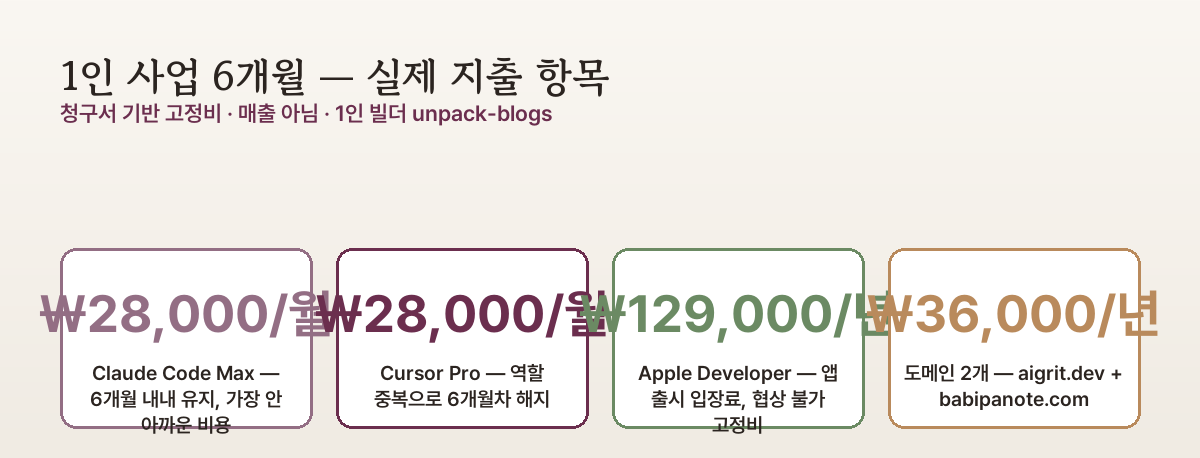
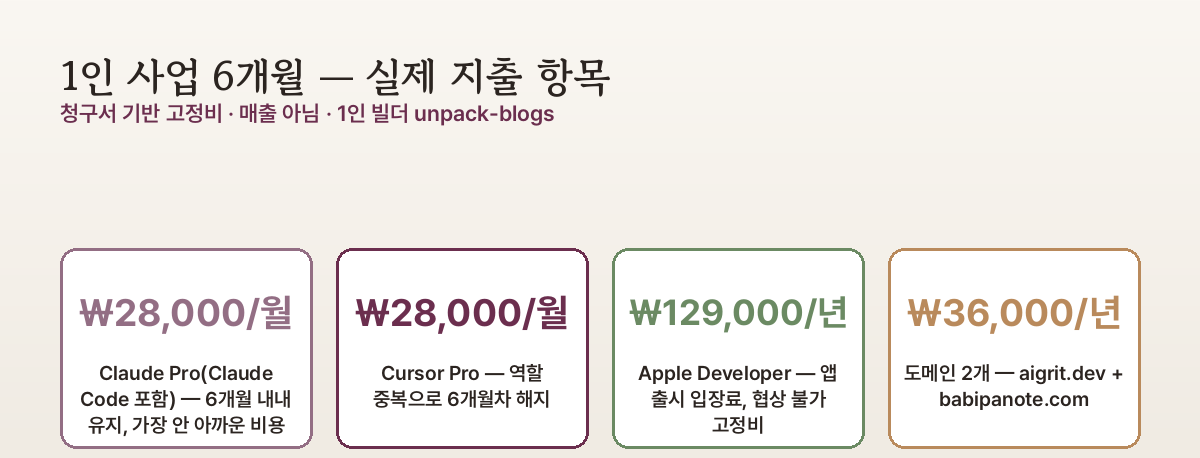
fix: 발행 글 본문 이미지 보강 · Claude 요금제 표기 정정 · 네이버 초안 점검 (#83)
- AIGrit 발행 글 6편에 본문 이미지 11장 추가(규칙: cluster 이미지 3장 이상, OG 포함)
  ai-image-stock · substack · gpt-store · prompt-freelance · promptbase · coupang-partners,
  updated는 실제 KST 수정 시각
- babipanote 예약 글 2편: "Claude Code Max 월 ₩28,000" → Claude Pro(Claude Code 포함)로 정정,
  비용 카드 이미지 재생성
- scripts/gen-infographics.py: stat_cards 큰 숫자가 카드 밖으로 넘치던 문제 수정(자동 축소·카드 높이)
- 네이버 에디션 초안 01·02·03·05에 점검 메모 추가, 05의 요금제 표기·근거 없는 외주 견적 수치 수정

Claude-Session: https://claude.ai/code/session_01SovLyEgD3EAvsTSQs8Xmf5

diff --git a/scripts/gen-infographics.py b/scripts/gen-infographics.py
@@ -272,13 +272,16 @@ def stat_cards(spec, T):
     img = gradient(W, H, T["bgTop"], T["bgBot"]); d = ImageDraw.Draw(img)
     header(d, T, spec["title"], spec.get("subtitle",""), W)
     n = len(cards); x0=60; x1=W-60; tw=x1-x0; gap=24
-    cw = (tw - gap*(n-1))//n; y = top+80; ch = 180
+    cw = (tw - gap*(n-1))//n; y = top+80; ch = 200
     palette = ["cyan","indigo","green","amber"]
     for i, c in enumerate(cards):
         x = x0 + i*(cw+gap)
         col = T[COLORMAP.get(c.get("color", palette[i%4]), "cyan")]
         rounded(d, (x, y, x+cw, y+ch), 16, fill=T["card"], outline=col, width=3)
-        d.text((x+cw//2, y+34), str(c["big"]), font=font("pb", 52), fill=col, anchor="ma")
+        big = str(c["big"]); bs = 52
+        while bs > 24 and d.textlength(big, font=font("pb", bs)) > cw - 28:
+            bs -= 2  # 카드 폭을 넘지 않도록 큰 숫자 글꼴을 줄인다
+        d.text((x+cw//2, y+34+(52-bs)//2), big, font=font("pb", bs), fill=col, anchor="ma")
         for li, ln in enumerate(wrap(d, c["label"], font("ps", 20), cw-30)[:3]):
             d.text((x+cw//2, y+112+li*26), ln, font=font("ps", 20), fill=T["head"], anchor="ma")
     return img

diff --git a/docs/naver-setup/editions/05-ai-ios-app-2weeks.md b/docs/naver-setup/editions/05-ai-ios-app-2weeks.md
@@ -2,6 +2,8 @@
 
 > **네이버 복붙용 초안.** "── 제목 ──" 이하만 네이버 스마트에디터에 복사하세요.
 > GentleDo 시리즈 **2/3** — #4 네이밍 → **#5 개발기(이 글)** → #6 심사 통과기.
+>
+> ⚠ **2026-10-21 점검 — 이미 발행된 글(blog.naver.com/aigrit/224269781667)도 수정 필요.** Claude Code는 월 $20인 **Claude Pro**에 포함되며, Max는 그보다 비싼 요금제다. 본문의 "Claude Code Max — 월 $20" 표기를 아래 초안처럼 "Claude Pro(Claude Code 포함) — 월 $20"으로 고쳤으니 네이버 글에도 같은 수정을 반영한다. "Flutter 외주 최소 300만원, 75배 차이"는 근거 자료가 없어 초안에서 수치를 뺐다.
 
 ---
 
@@ -86,7 +88,7 @@ open /Users/seung-yeoblee/dev/unpack-blogs/docs/naver-setup/editions/images/05-g
 - **언어 / 프레임워크** — Flutter + Dart
 - **상태관리** — Riverpod
 - **로컬 DB** — Drift (SQLite 래퍼)
-- **AI 페어** — Claude Code Max 구독
+- **AI 페어** — Claude Pro 구독 (Claude Code 포함)
 
 Flutter를 고른 이유는 단순합니다. **iOS·Android·macOS를 한 코드베이스로 만들 수 있고**, Dart는 정적 타입이라 AI랑 페어 프로그래밍할 때 실수가 적었어요.
 
@@ -98,11 +100,11 @@ Flutter를 고른 이유는 단순합니다. **iOS·Android·macOS를 한 코드
 
 2주간 실제 결제 내역입니다.
 
-- **Claude Code Max** — 월 $20 (≈ ₩28,000)
+- **Claude Pro (Claude Code 포함)** — 월 $20 (≈ ₩28,000)
 - **Apple Developer Program** — 연 $99 (월 환산 ≈ $8.25)
 - **합계 — 월 $28.25 ≈ ₩40,000**
 
-Flutter 외주 견적 받으면 **최소 300만원부터** 시작합니다. 75배 차이예요. 부업으로 시작하기에 이만한 가성비가 없습니다.
+같은 앱을 외주로 맡기면 비용이 훨씬 커집니다. 부업으로 시작하기에 이만한 가성비가 없습니다.
 
 ---
 
@@ -195,7 +197,7 @@ TestFlight 암호화 선언, iPad 타깃 제거, provisioning profile 설정. **
 처음 쓰시는 분께 추천 순서입니다.
 
 - **무료 ChatGPT** — 개념 질문·디버깅 시작점
-- **Claude Code Max $20** — 본격 개발 시작 (가성비 최강)
+- **Claude Pro $20 (Claude Code 포함)** — 본격 개발 시작
 - **Cursor Pro $20** — IDE 안에서 작업하고 싶으면
 
 처음엔 무료로 감 잡고, **프로젝트 시작할 때 Claude Code 전환**이 현실적이에요.

diff --git a/docs/naver-setup/editions/01-apple-shortcuts-50000won.md b/docs/naver-setup/editions/01-apple-shortcuts-50000won.md
@@ -1,6 +1,8 @@
 # 🧾 네이버 에디션 #1 — Apple 단축어 편
 
 > **네이버 복붙용 초안.** 아래 "── 제목 ──" 이하만 복사해서 네이버 스마트에디터에 붙여넣으세요.
+>
+> ⚠ **2026-10-21 점검 — 발행 전 수정 필요.** 원본 AIGrit 글(`apple-shortcuts-ai-automation`)은 근거 없는 절약 시간·금액을 삭제하고 개정됐다. 이 초안의 "월 5만원 절약", 단축어별 "매일 10분 절약" 같은 수치와 절약 계산 표는 측정 근거가 없으므로 제목·소제목에서 빼고, 원본 개정판 기준으로 다시 맞춘다. API 비용은 사용량에 따라 다르다고 적고 공식 요금 페이지를 안내한다.
 
 ---
 

diff --git a/docs/naver-setup/editions/02-notion-ai-side-income.md b/docs/naver-setup/editions/02-notion-ai-side-income.md
@@ -1,6 +1,8 @@
 # 🧾 네이버 에디션 #2 — Notion AI 편
 
 > **네이버 복붙용 초안.** "── 제목 ──" 이하만 네이버 스마트에디터에 복사하세요.
+>
+> ⚠ **2026-10-21 점검 — 발행 전 수정 필요.** Notion AI는 더 이상 월 $10 애드온으로 팔지 않는다. 2026년 10월 Notion 요금 페이지 기준 전체 기능은 Business(멤버당 월 $20부터) 이상에 포함되고 Free·Plus는 체험 수준이다. "월 14,000원 투자", "$10 vs $20" 비교, "시간 절약 가치 10배", "실측 프롬프트" 표현을 고치고 원본 개정판(`notion-ai-guide`) 기준으로 다시 맞춘다.
 
 ---
 

diff --git a/docs/naver-setup/editions/03-perplexity-vs-naver-search.md b/docs/naver-setup/editions/03-perplexity-vs-naver-search.md
@@ -1,6 +1,8 @@
 # 🧾 네이버 에디션 #3 — Perplexity 편
 
 > **네이버 복붙용 초안.** "── 제목 ──" 이하만 네이버 스마트에디터에 복사하세요.
+>
+> ⚠ **2026-10-21 점검 — 발행 전 수정 필요.** "3일 써본 후기", "실험 1~3", "리서치 시간 70% 단축"은 실제 기록이 없다면 후기 형식으로 쓰면 안 된다(원본 AIGrit 글도 같은 이유로 개정됨). 실제로 써 본 기록이 있다면 그 기록만 남기고, 없다면 "이렇게 써 보면 좋다"는 안내형으로 바꾼다.
 
 ---
 
